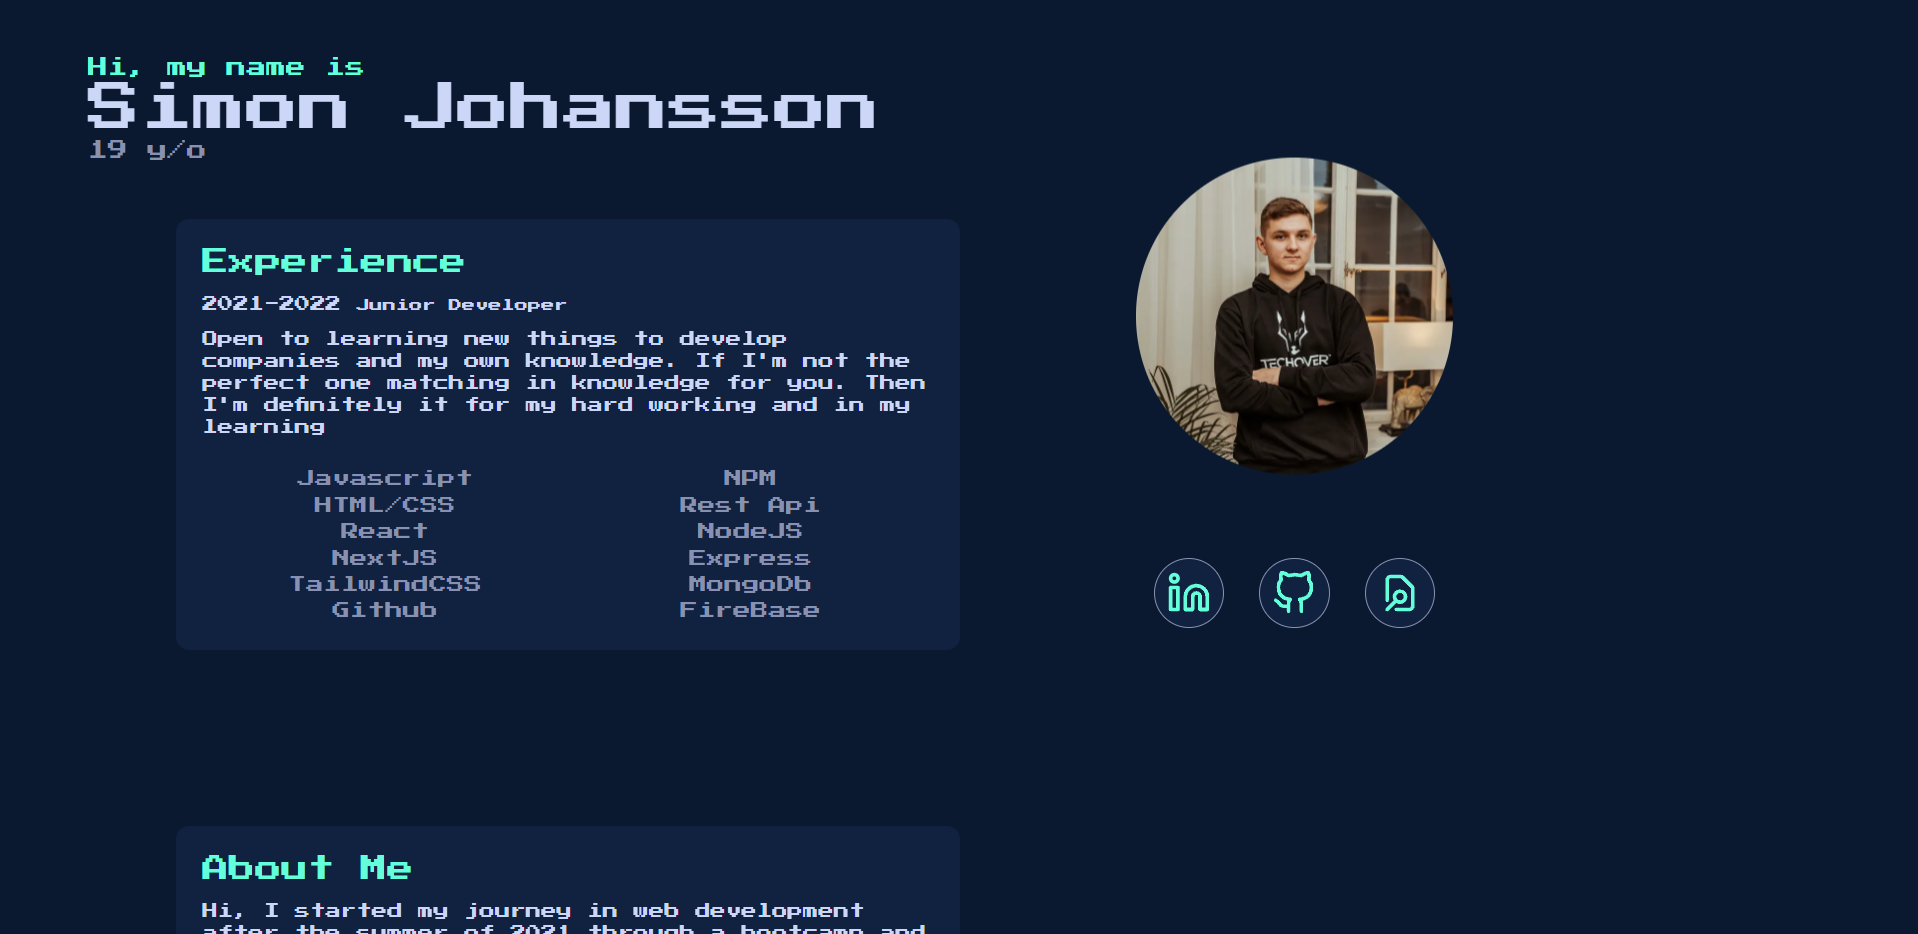
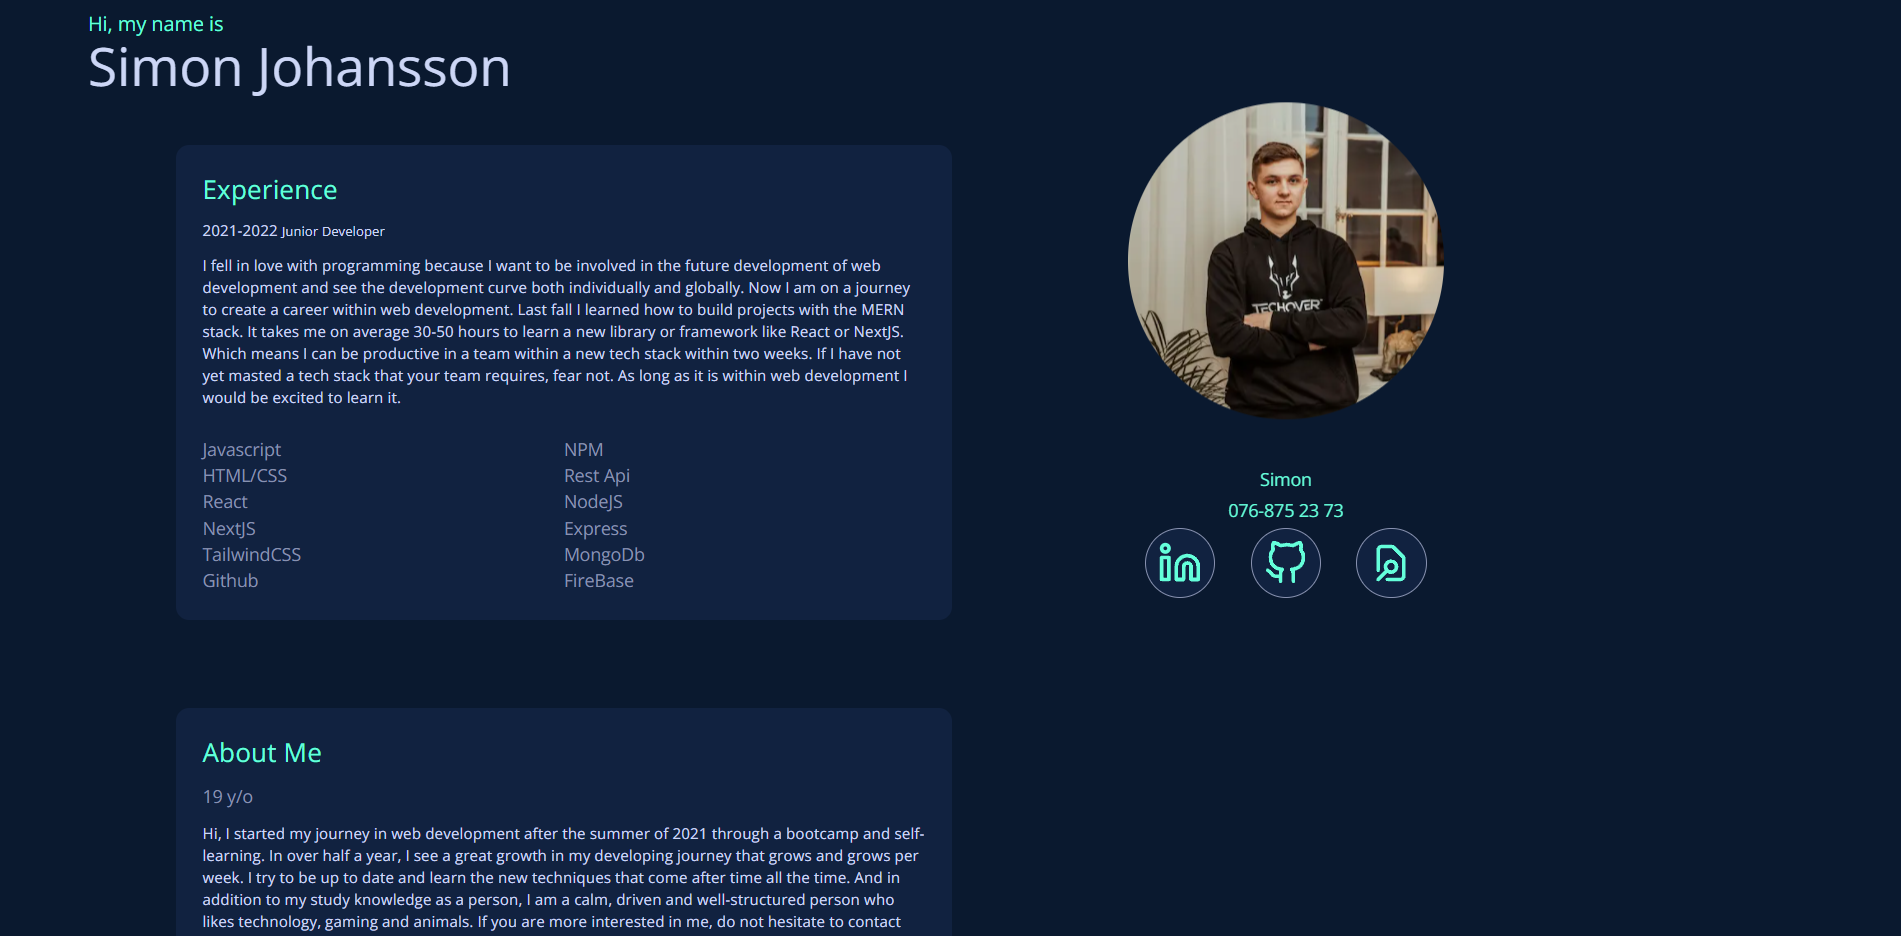
added a img on small screens and fixed the header tags on small screens

diff --git a/components/LandingPage/LandingPage.jsx b/components/LandingPage/LandingPage.jsx
@@ -7,10 +7,10 @@ import { AiOutlineMail, AiOutlinePhone } from 'react-icons/ai';
 
 const LandingPage = () => {
 	return (
-		<div className="px-2 sm:px-10 md:px-20 lg:px-28  xl:px-40 grid-cols-1 lg:grid-cols-2 xl:grid-cols-3 2xl:grid-cols-4 pb-12 lg:pb-40">
+		<div className="px-2 sm:px-10 md:px-20 lg:px-28  xl:px-40 grid-cols-1 lg:grid-cols-2 xl:grid-cols-3 2xl:grid-cols-4 lg:pb-40">
 			<div className="w-full lg:items-start items-center grid grid-cols-1 lg:grid-cols-2">
 				<div className=" w-full">
-					<div className="text-secondBackgroundColor bg-secondBackgroundColor p-6 rounded-xl h-auto mb-12 sm:mb-40">
+					<div className="text-secondBackgroundColor bg-secondBackgroundColor p-6 rounded-xl h-auto mb-12 sm:mb-20">
 						<h3 className="text-mainColor text-2xl mb-3">Experience</h3>
 						<p className="text-secondaryColor mb-3 text-sm">
 							2021-2022 <span className="text-xs">Junior Developer</span>
@@ -44,7 +44,7 @@ const LandingPage = () => {
 							</ul>
 						</div>
 					</div>
-					<div className="text-secondBackgroundColor bg-secondBackgroundColor p-6 rounded-xl h-auto mb-20 lg:mb-0">
+					<div className="text-secondBackgroundColor bg-secondBackgroundColor p-6 rounded-xl h-auto mb-12 lg:mb-0">
 						<h3 className="text-mainColor text-2xl mb-3">About Me</h3>
 						<h3 className="text-thirdColor text-base mb-3">19 y/o</h3>
 						<p className="text-secondaryColor mb-6 text-sm">
@@ -89,8 +89,8 @@ const LandingPage = () => {
 						<p className="text-mainColor pb-1">Simon</p>
 						<p className="text-mainColor pb-1">076-875 23 73 </p>
 					</div>
-					<div className="flex flex-row justify-around w-full lg:w-72">
-						<div className="flex w-16 h-16 rounded-full cursor-pointer border border-thirdColor bg-secondBackgroundColor items-center justify-center hover:brightness-75">
+					<div className="flex flex-row justify-around w-full lg:w-72 mb-12 lg:mb-0 ">
+						<div className=" flex w-16 h-16 rounded-full cursor-pointer border border-thirdColor bg-secondBackgroundColor items-center justify-center hover:brightness-75">
 							<a
 								href="https://www.linkedin.com/in/simon-johansson-bb645621b/"
 								target="_blank"
@@ -101,12 +101,12 @@ const LandingPage = () => {
 							</a>
 						</div>
 						<div className="flex w-16 h-16 rounded-full cursor-pointer border border-thirdColor bg-secondBackgroundColor items-center justify-center hover:brightness-75">
-							<a href="https://github.com/simonjohansson02" target="_blank" rel="noreferrer" className="">
+							<a href="https://github.com/simonjohansson02" target="_blank" rel="noreferrer">
 								<FiGithub className="text-mainColor w-10 h-10" />
 							</a>
 						</div>
 						<div className="flex w-16 h-16 rounded-full cursor-pointer border border-thirdColor bg-secondBackgroundColor items-center justify-center hover:brightness-75">
-							<a href="/document/SJCV.pdf" target="_blank" rel="noopener noreferrer" className="">
+							<a href="/document/SJCV.pdf" target="_blank" rel="noopener noreferrer">
 								<HiOutlineDocumentSearch className="text-mainColor w-10 h-10" />
 							</a>
 						</div>

diff --git a/components/Projects/ProjectCard.jsx b/components/Projects/ProjectCard.jsx
@@ -25,12 +25,12 @@ const ProjectCard = ({ title, info, stack, github, website, image }) => {
 				<div className="flex flex-col items-center pt-10 ">
 					<div className="relative flex flex-row items-center w-full justify-between">
 						<div className="flex w-16 h-16 rounded-full cursor-pointer border border-thirdColor bg-secondBackgroundColor items-center justify-center hover:brightness-75">
-							<a href={website} target="_blank" rel="noreferrer" className="">
+							<a href={website} target="_blank" rel="noreferrer">
 								<CgWebsite className="text-mainColor w-10 h-10" />
 							</a>
 						</div>
 						<div className="flex w-16 h-16 rounded-full cursor-pointer border border-thirdColor bg-secondBackgroundColor items-center justify-center hover:brightness-75">
-							<a href={github} target="_blank" rel="noreferrer" className="">
+							<a href={github} target="_blank" rel="noreferrer">
 								<FiGithub className="text-mainColor w-10 h-10" />
 							</a>
 						</div>

diff --git a/components/Header/Header.jsx b/components/Header/Header.jsx
@@ -1,10 +1,22 @@
 import React from 'react';
+import Image from 'next/image';
 
 const Header = () => {
 	return (
-		<div className="p-12 sm:pl-20">
-			<h2 className="text-mainColor text-base  sm:text-lg">Hi, my name is</h2>
-			<h1 className="text-secondaryColor text-2xl  sm:text-5xl ">Simon Johansson</h1>
+		<div className="flex flex-row justify-between p-2 pb-12 sm:pr-10 md:pr-20 sm:pl-6 md:pl-10 lg:pl-16  xl:pl-20">
+			<div>
+				<h2 className="text-mainColor text-base  sm:text-lg">Hi, my name is</h2>
+				<h1 className="text-secondaryColor text-2xl  sm:text-5xl ">Simon Johansson</h1>
+			</div>
+			<div className="relative flex lg:hidden w-16 sm:w-20">
+				<Image
+					src="/simon4000x4000.png"
+					alt="profile-picture"
+					priority
+					layout="fill"
+					className="rounded-full object-cover"
+				/>
+			</div>
 		</div>
 	);
 };

diff --git a/components/Projects/Projects.jsx b/components/Projects/Projects.jsx
@@ -37,7 +37,7 @@ const Projects = () => {
 
 	return (
 		<div className="">
-			<div className="pl-2 sm:pl-10 md:pl-20 lg:pl-28  xl:pl-40 pb-12">
+			<div className="px-2 pb-12 sm:pl-10 md:pl-20 lg:pl-28  xl:pl-40">
 				<h1 className="text-mainColor text-lg">My Projects</h1>
 			</div>
 			<div className="grid gap-2 xl:gap-3 px-2 sm:px-10 md:px-20 lg:px-28  xl:px-40 grid-cols-1 lg:grid-cols-2 xl:grid-cols-3 2xl:grid-cols-4 pb:20 sm:pb-40">
